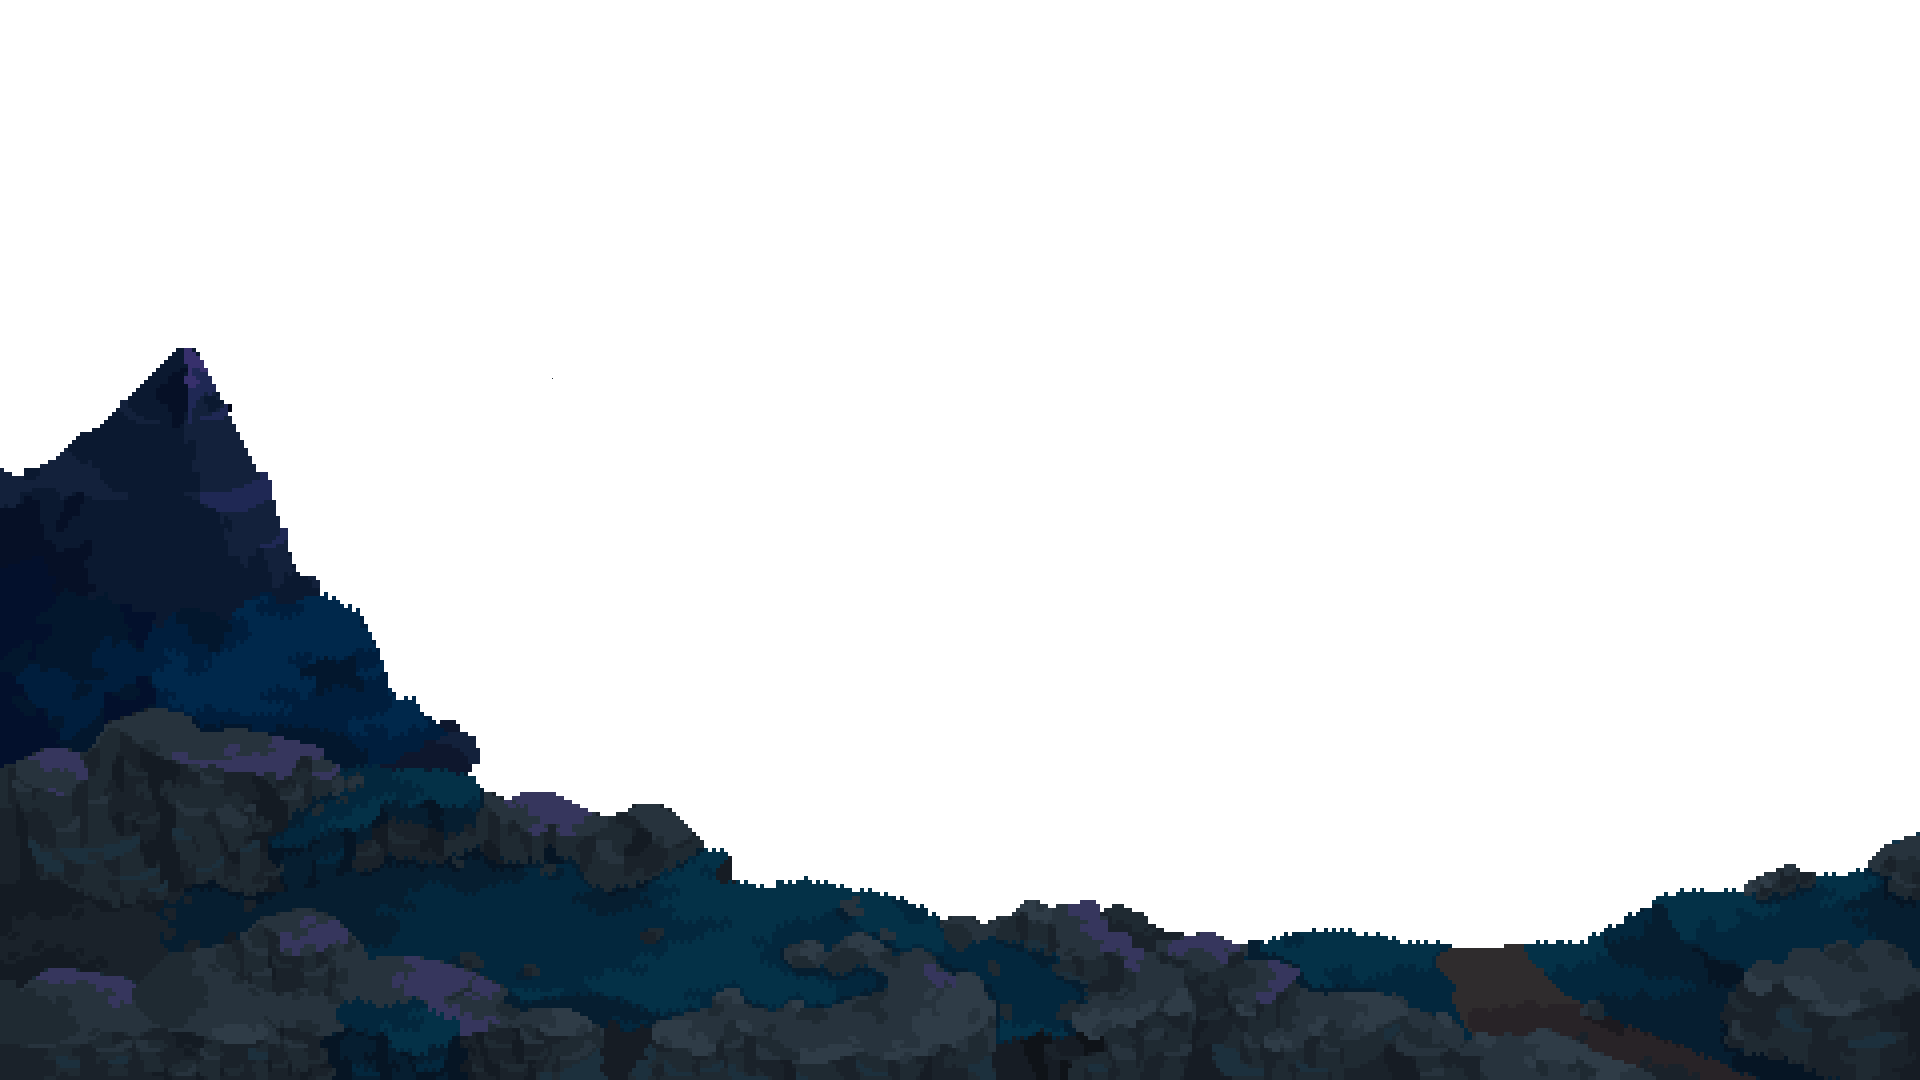
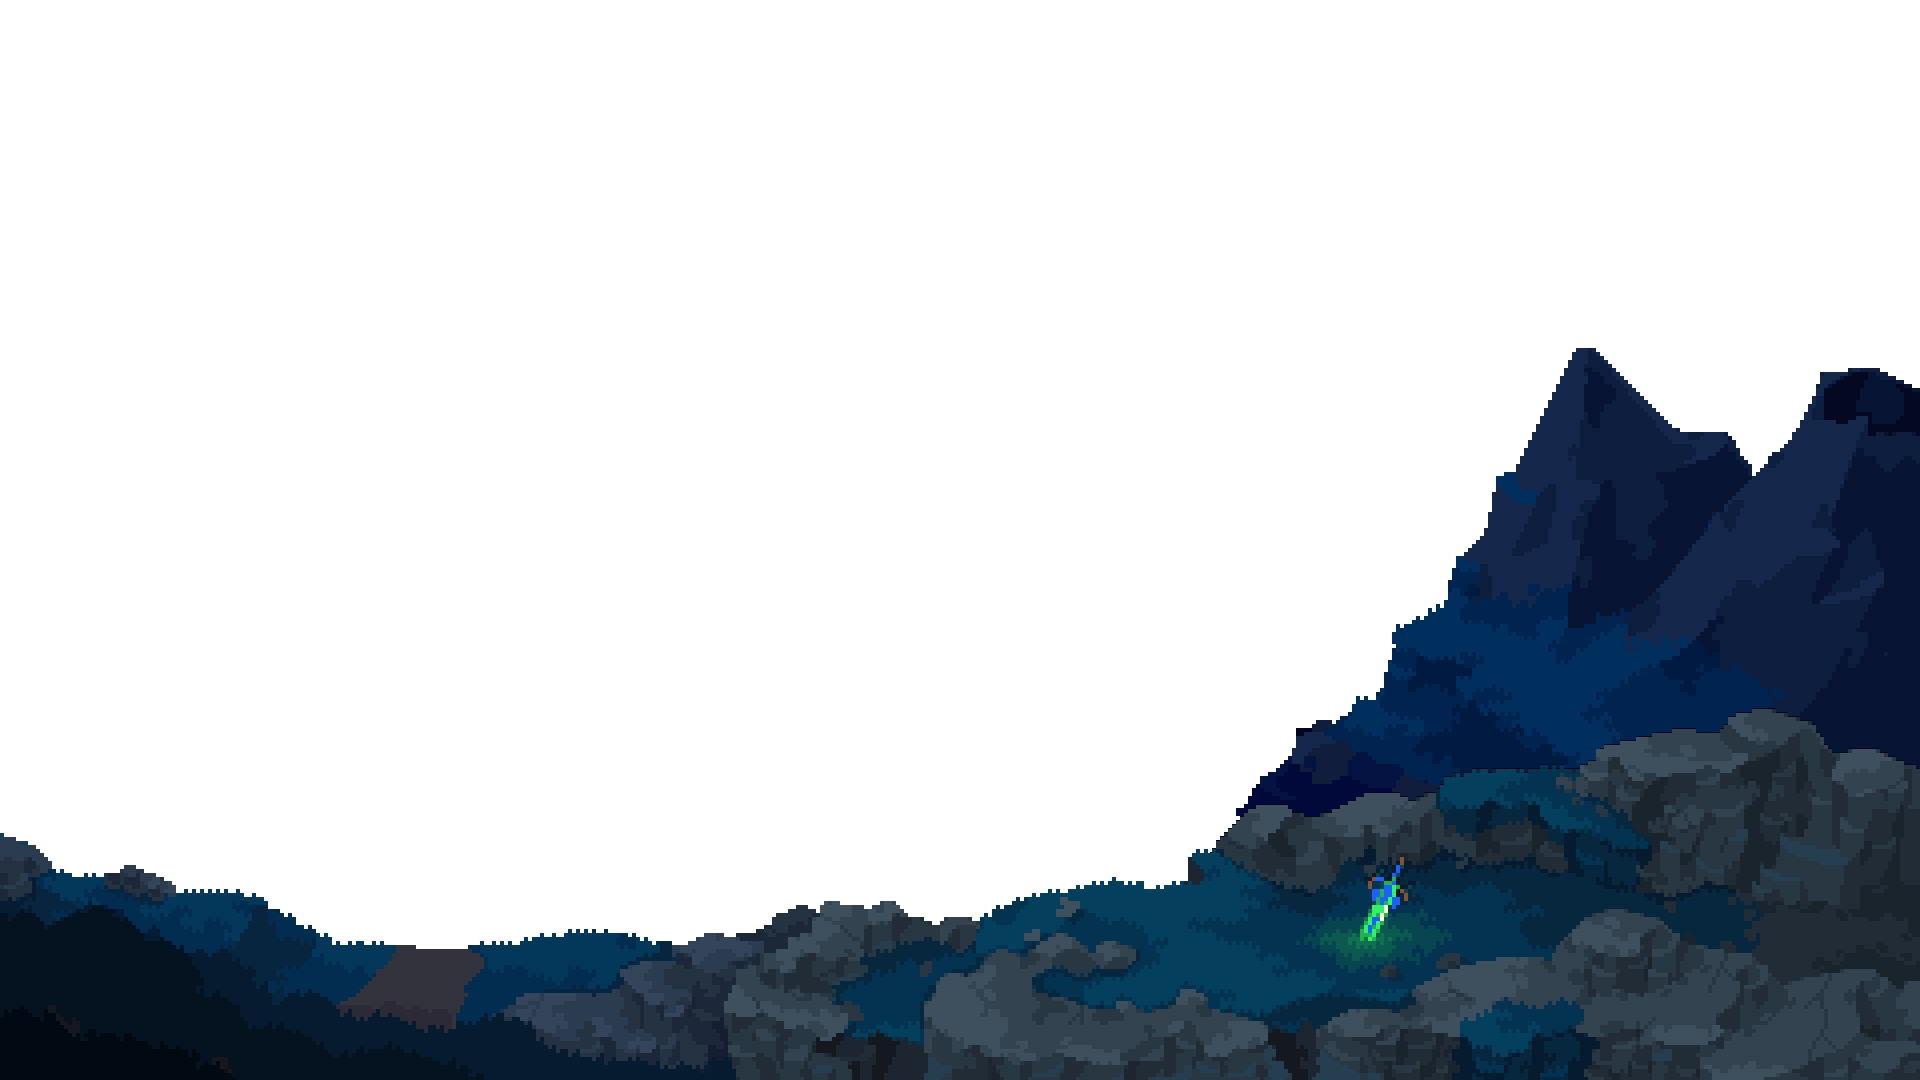
基本完成

diff --git a/Sources/Menu/EverglowModMenu.cs b/Sources/Menu/EverglowModMenu.cs
@@ -13,6 +13,14 @@ namespace Everglow.Sources.Menu
     internal class EverglowModMenu : ModMenu
     {
         public List<Star> stars = new();
+        public override void Load()
+        {
+
+        }
+        public override void Unload()
+        {
+            stars=null;
+        }
         public void Update()
         {
             for (int i=0;i<stars.Count;i++)
@@ -124,7 +132,7 @@ namespace Everglow.Sources.Menu
             //绘制水以及反射的天空
             Texture2D water = ModContent.Request<Texture2D>("Everglow/Sources/Menu/water").Value;
             spriteBatch.Draw(water, new Rectangle(0, 0, Main.screenWidth, Main.screenHeight), Color.White*0.95f);
-            Rectangle rec = new Rectangle(464,728,592,168);
+            Rectangle rec = new Rectangle(864,729,592,168);
             rec.X = (int)(rec.X * Main.UIScale * Main.screenWidth /1920f);
             rec.Y = (int)(rec.Y * Main.UIScale * Main.screenHeight /1080f);
             Vector2 size = new Vector2(bg.Width, bg.Height);
@@ -151,13 +159,14 @@ namespace Everglow.Sources.Menu
             Texture2D front1 = ModContent.Request<Texture2D>("Everglow/Sources/Menu/front1").Value;
             spriteBatch.Draw(front1, new Rectangle(0, 0, Main.screenWidth, Main.screenHeight), Color.White);
 
+            //TODO 绘制标题字
+            Texture2D front0 = ModContent.Request<Texture2D>("Everglow/Sources/Menu/上层").Value;  
+            
 
-            Texture2D front0 = ModContent.Request<Texture2D>("Everglow/Sources/Menu/上层").Value;
-            //spriteBatch.Draw(front0, new Rectangle(0, 0, Main.screenWidth, Main.screenHeight), Color.White);
-           
+
             bg = null;
             renderTargets.Release();
-            return false;
+            return true;
         }
     }
 }
